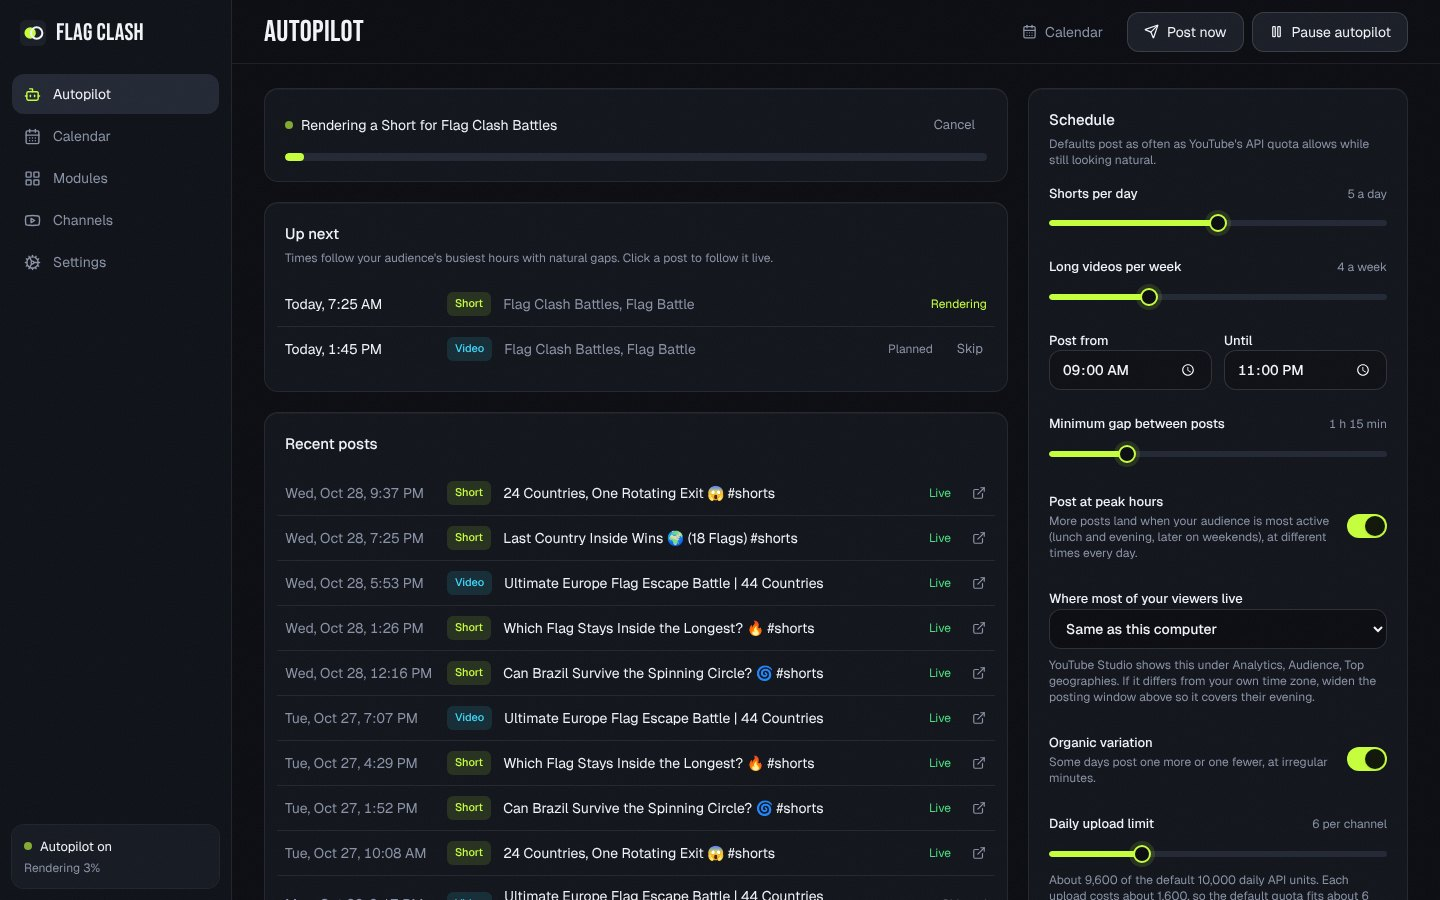
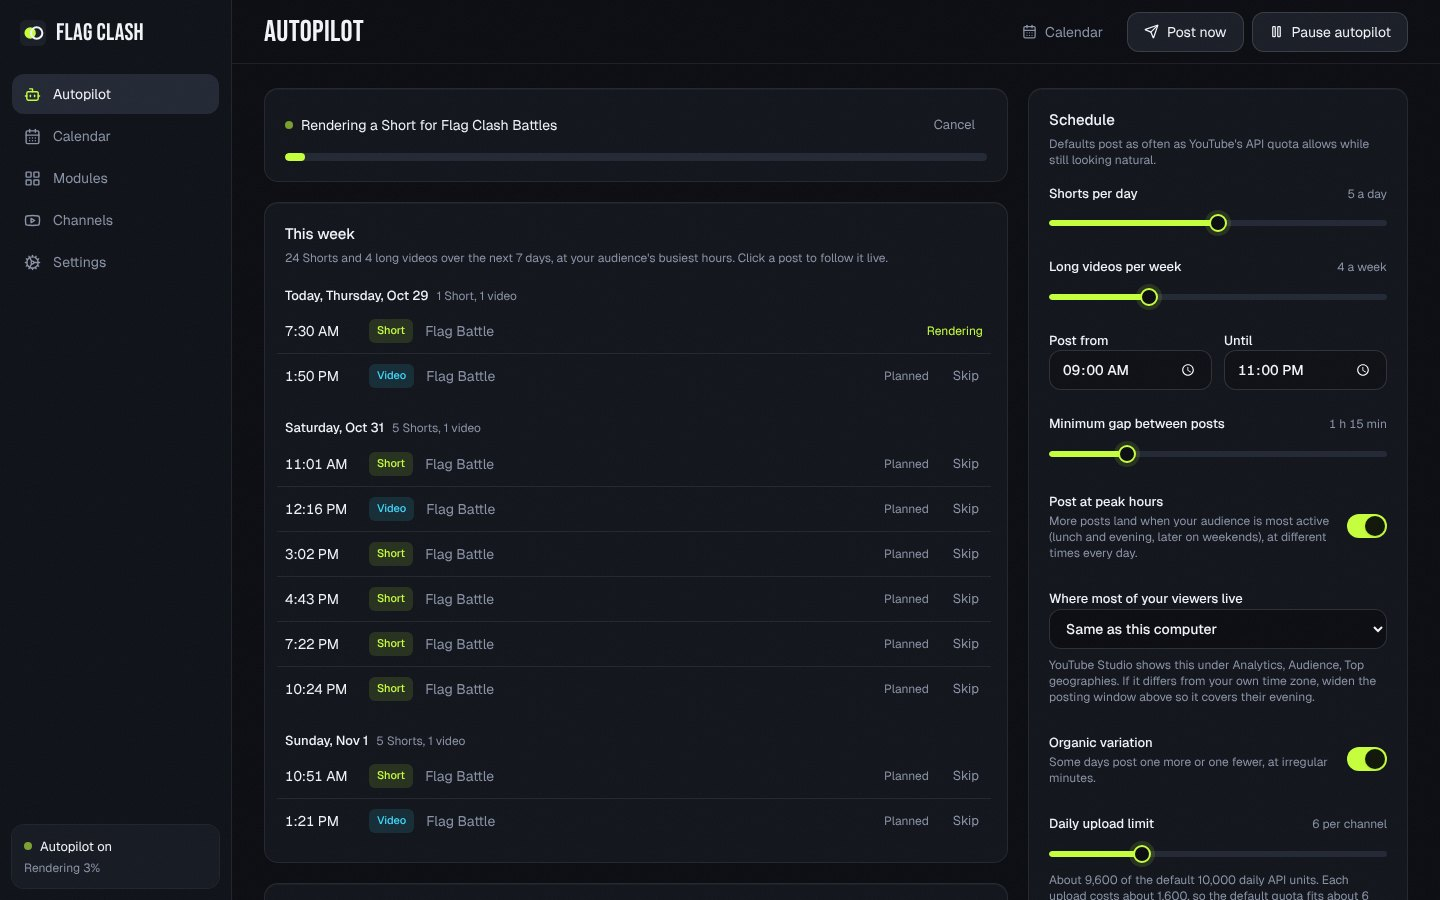
Plan a full week ahead and show it grouped by day
The autopilot now queues 7 days of posts per channel (rolling forward
daily) instead of today and tomorrow, so the whole week is visible,
skippable and followable. The Autopilot page lists it as This week,
grouped by day, including posts already uploaded and waiting for YouTube.

Claude-Session: https://claude.ai/code/session_016HkLPn7Y6Y1GU2h5S5wx5f

diff --git a/src/app/desktop/AutopilotPage.tsx b/src/app/desktop/AutopilotPage.tsx
@@ -4,6 +4,7 @@ import { useEffect, useMemo, useRef, useState } from 'react';
 import { toast } from 'sonner';
 import { AUDIENCE_ZONES } from '../../autopilot/engagement';
 import type { Autopilot } from '../../autopilot/engine';
+import { dayKey, parseDayKey } from '../../autopilot/planner';
 import type { AutopilotState, ContentFormat, PostSettings, ScheduleSettings } from '../../autopilot/types';
 import { Button } from '../../components/ui/Button';
 import { Segmented, Slider, Toggle } from '../../components/ui/controls';
@@ -13,7 +14,16 @@ import { cn } from '../../lib/utils';
 import { moduleById } from '../../modules/registry';
 import { navigate } from '../router';
 import { Card, DesktopLayout, DesktopOnly } from './Layout';
-import { FormatChip, PostDetail, STATUS_STYLE, fmtTime, statusLabel, whenLabel, youtubeUrl } from './posts';
+import {
+  FormatChip,
+  PostDetail,
+  STATUS_STYLE,
+  fmtTime,
+  isScheduledOnYouTube,
+  statusLabel,
+  whenLabel,
+  youtubeUrl,
+} from './posts';
 
 /** Opens the post detail panel. */
 type OpenPost = (slotId: string) => void;
@@ -114,46 +124,86 @@ function NowCard({ ap, state, onOpen }: { ap: Autopilot; state: AutopilotState; 
   );
 }
 
+function dayHeading(key: string): string {
+  const nice = parseDayKey(key).toLocaleDateString([], { weekday: 'long', month: 'short', day: 'numeric' });
+  if (key === dayKey(new Date())) return `Today, ${nice}`;
+  if (key === dayKey(new Date(Date.now() + 86_400_000))) return `Tomorrow, ${nice}`;
+  return nice;
+}
+
 function UpNext({ ap, state, onOpen }: { ap: Autopilot; state: AutopilotState; onOpen: OpenPost }) {
-  const upcoming = state.slots
-    .filter((s) => ['planned', 'rendering', 'rendered', 'uploading'].includes(s.status))
-    .slice(0, 10);
+  const now = Date.now();
+  // Everything still to come this week, including posts already uploaded and waiting for YouTube.
+  const upcoming = state.slots.filter(
+    (s) =>
+      ['planned', 'rendering', 'rendered', 'uploading'].includes(s.status) || isScheduledOnYouTube(s, now),
+  );
+  const days = new Map<string, typeof upcoming>();
+  for (const s of upcoming) {
+    const k = dayKey(new Date(s.at));
+    days.set(k, [...(days.get(k) ?? []), s]);
+  }
   const channel = (id: string) => state.channels.find((c) => c.id === id)?.title ?? 'Unknown channel';
+  const many = state.channels.length > 1;
+  const shorts = upcoming.filter((s) => s.format === 'short').length;
   return (
     <Card
-      title="Up next"
-      note="Times follow your audience's busiest hours with natural gaps. Click a post to follow it live."
+      title="This week"
+      note={
+        upcoming.length
+          ? `${shorts} Shorts and ${upcoming.length - shorts} long videos over the next 7 days, at your audience's busiest hours. Click a post to follow it live.`
+          : undefined
+      }
     >
       {upcoming.length === 0 ? (
-        <p className="py-6 text-center text-sm text-muted">Nothing scheduled.</p>
+        <p className="py-6 text-center text-sm text-muted">
+          {state.running ? 'Nothing scheduled.' : 'Start the autopilot to plan the week.'}
+        </p>
       ) : (
-        <ul className="-mx-2 divide-y divide-line">
-          {upcoming.map((s) => (
-            <li key={s.id} className="flex items-center gap-1">
-              <button type="button" className={rowClass} onClick={() => onOpen(s.id)}>
-                <span className="w-[150px] shrink-0 tabular">{whenLabel(s.at)}</span>
-                <FormatChip format={s.format} />
-                <span className="min-w-0 flex-1 truncate text-muted">
-                  {channel(s.channelId)}, {moduleById(s.moduleId)?.name ?? s.moduleId}
-                  {s.error && s.status === 'planned' && (
-                    <span className="text-danger"> (retrying: {s.error})</span>
-                  )}
-                </span>
-                <span className={cn('text-xs', STATUS_STYLE[s.status])}>{statusLabel(s)}</span>
-              </button>
-              {(s.status === 'planned' || s.status === 'rendered') && (
-                <Button
-                  size="sm"
-                  variant="ghost"
-                  onClick={() => void ap.skip(s.id)}
-                  aria-label={`Skip post at ${whenLabel(s.at)}`}
-                >
-                  Skip
-                </Button>
-              )}
-            </li>
-          ))}
-        </ul>
+        <div className="-mx-2 max-h-[560px] space-y-4 overflow-y-auto pr-1 scrollbar-thin">
+          {[...days.entries()].map(([key, list]) => {
+            const n = list.filter((s) => s.format === 'short').length;
+            return (
+              <section key={key}>
+                <h3 className="sticky top-0 z-10 flex items-baseline gap-2 bg-surface px-2 py-1 text-[13px] font-medium">
+                  {dayHeading(key)}
+                  <span className="text-xs font-normal text-muted">
+                    {n} Short{n === 1 ? '' : 's'}
+                    {list.length - n ? `, ${list.length - n} video${list.length - n === 1 ? '' : 's'}` : ''}
+                  </span>
+                </h3>
+                <ul className="divide-y divide-line">
+                  {list.map((s) => (
+                    <li key={s.id} className="flex items-center gap-1">
+                      <button type="button" className={rowClass} onClick={() => onOpen(s.id)}>
+                        <span className="w-[72px] shrink-0 tabular">{fmtTime(s.at)}</span>
+                        <FormatChip format={s.format} />
+                        <span className="min-w-0 flex-1 truncate text-muted">
+                          {s.title ??
+                            (many ? channel(s.channelId) : (moduleById(s.moduleId)?.name ?? s.moduleId))}
+                          {s.error && s.status === 'planned' && (
+                            <span className="text-danger"> (retrying: {s.error})</span>
+                          )}
+                        </span>
+                        <span className={cn('text-xs', STATUS_STYLE[s.status])}>{statusLabel(s)}</span>
+                      </button>
+                      {(s.status === 'planned' || s.status === 'rendered') && (
+                        <Button
+                          size="sm"
+                          variant="ghost"
+                          onClick={() => void ap.skip(s.id)}
+                          aria-label={`Skip post at ${whenLabel(s.at)}`}
+                        >
+                          Skip
+                        </Button>
+                      )}
+                    </li>
+                  ))}
+                </ul>
+              </section>
+            );
+          })}
+        </div>
       )}
     </Card>
   );
@@ -161,7 +211,7 @@ function UpNext({ ap, state, onOpen }: { ap: Autopilot; state: AutopilotState; o
 
 function History({ state, onOpen }: { state: AutopilotState; onOpen: OpenPost }) {
   const done = state.slots
-    .filter((s) => ['posted', 'failed', 'skipped'].includes(s.status))
+    .filter((s) => ['posted', 'failed', 'skipped'].includes(s.status) && !isScheduledOnYouTube(s))
     .sort((a, b) => b.at - a.at)
     .slice(0, 30);
   return (

diff --git a/src/autopilot/engine.ts b/src/autopilot/engine.ts
@@ -1,5 +1,5 @@
 /**
- * Autopilot runtime. Keeps every connected channel's plan for today and tomorrow, renders each
+ * Autopilot runtime. Keeps every connected channel's plan for the coming week, renders each
  * post shortly before its slot, uploads it, retries failures with backoff, and skips slots missed
  * while the computer was off (posting them late in a burst would look unnatural).
  *
@@ -60,6 +60,8 @@ export const SCHEDULED_RENDER_LEAD_MS = 3 * 3_600_000;
 export const MISSED_GRACE_MS = 2 * 3_600_000;
 const RETRY_DELAYS_MIN = [5, 20, 60];
 const MAX_ATTEMPTS = RETRY_DELAYS_MIN.length + 1;
+/** How many days ahead (today included) the plan is queued, so the whole week is visible and skippable. */
+export const PLAN_DAYS = 7;
 const HISTORY_DAYS = 45;
 const CONTENT_LOG_MAX = 500;
 const SLOT_LOG_MAX = 30;
@@ -153,7 +155,7 @@ export class Autopilot {
       .map(([id]) => id);
   }
 
-  /** Drops planned (not started) automatic slots and plans today and tomorrow again. */
+  /** Drops planned (not started) automatic slots and plans the coming week again. */
   replanFuture(): void {
     const st = this.state!;
     st.slots = st.slots.filter((s) => s.status !== 'planned' || s.manual);
@@ -169,7 +171,7 @@ export class Autopilot {
     for (const ch of st.channels) {
       if (!ch.enabled) continue;
       const done = new Set(st.plannedDays[ch.id] ?? []);
-      for (let offset = 0; offset < 2; offset++) {
+      for (let offset = 0; offset < PLAN_DAYS; offset++) {
         const today = startOfDay(now);
         const day = new Date(today.getFullYear(), today.getMonth(), today.getDate() + offset);
         const key = dayKey(day);
@@ -198,7 +200,7 @@ export class Autopilot {
         done.add(key);
         changed = true;
       }
-      st.plannedDays[ch.id] = [...done].sort().slice(-7);
+      st.plannedDays[ch.id] = [...done].sort().slice(-(PLAN_DAYS + 7));
     }
     if (changed) st.slots.sort((a, b) => a.at - b.at);
     return changed;

diff --git a/src/autopilot/autopilot.test.ts b/src/autopilot/autopilot.test.ts
@@ -1,5 +1,12 @@
 import { describe, expect, test } from 'vitest';
-import { Autopilot, MISSED_GRACE_MS, RENDER_LEAD_MS, SCHEDULED_RENDER_LEAD_MS, type Backend } from './engine';
+import {
+  Autopilot,
+  MISSED_GRACE_MS,
+  PLAN_DAYS,
+  RENDER_LEAD_MS,
+  SCHEDULED_RENDER_LEAD_MS,
+  type Backend,
+} from './engine';
 import { dayKey, planDay, videosOnDay } from './planner';
 import { DEFAULT_SCHEDULE, defaultState, type AutopilotState, type ScheduleSettings } from './types';
 
@@ -171,6 +178,20 @@ describe('engine', () => {
       expect.stringMatching(/^Uploaded; YouTube publishes it at/),
       'Custom thumbnail set',
     ]);
+  });
+
+  test('queues a full week ahead', async () => {
+    const env = fakeBackend(new Date(2026, 9, 29, 6, 0).getTime());
+    const ap = new Autopilot(env.backend, () => ['flag-battle']);
+    await ap.init();
+    await ap.tick();
+    const days = new Set(ap.snapshot!.slots.map((s) => dayKey(new Date(s.at))));
+    expect(days.size).toBe(PLAN_DAYS);
+    expect(ap.snapshot!.slots.every((s) => s.status === 'planned')).toBe(true);
+    // A day later the week rolls forward by one day.
+    env.advance(86_400_000);
+    await ap.tick();
+    expect(ap.snapshot!.slots.some((s) => dayKey(new Date(s.at)) === '2026-11-05')).toBe(true);
   });
 
   test('scheduled publishing renders hours ahead so the PC can be off at post time', async () => {

diff --git a/src/app/desktop/CalendarPage.tsx b/src/app/desktop/CalendarPage.tsx
@@ -16,7 +16,7 @@ const plural = (n: number, word: string) => `${n} ${word}${n === 1 ? '' : 's'}`;
 
 const WEEKDAYS = ['Mon', 'Tue', 'Wed', 'Thu', 'Fri', 'Sat', 'Sun'];
 
-/** Plan previews for days that are not queued yet (the autopilot queues today and tomorrow). */
+/** Plan previews for days that are not queued yet (the autopilot queues a week ahead). */
 function previews(state: AutopilotState, from: Date, to: Date): Entry[] {
   const out: Entry[] = [];
   if (state.running) {

diff --git a/README.md b/README.md
@@ -121,9 +121,9 @@ You will need **a Google account that owns a YouTube channel**. No credit card i
 
 ### Autopilot
 
-<img src="docs/images/autopilot.jpg" alt="The Autopilot page: next post, the upcoming schedule and schedule settings" width="100%" />
+<img src="docs/images/autopilot.jpg" alt="The Autopilot page: the current job, the week ahead grouped by day, and schedule settings" width="100%" />
 
-- **Up next** shows the planned posts for today and tomorrow. **Skip** any you don't want.
+- **This week** lists every post planned for the next 7 days, grouped by day. **Skip** any you don't want.
 - **Click any post** to open its timeline: planned, rendering (with a live progress bar), uploading, scheduled on
   YouTube (with a countdown) and live, plus every event, error and retry along the way.
 - **Post now** renders and uploads one Short or long video immediately, outside the schedule. Great for a first test.
